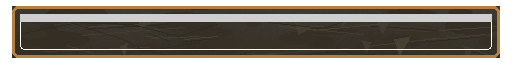
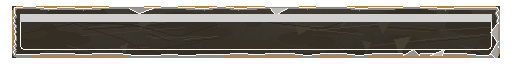
3

Changed region(s): [[0.0, 0.0938, 1.0, 0.9062]]

diff --git a/tools/ci/generate_lapidary_ui_assets.py b/tools/ci/generate_lapidary_ui_assets.py
@@ -54,6 +54,62 @@ def _noise_layer(size: tuple[int, int], opacity: int, seed: int) -> Image.Image:
     return img.filter(ImageFilter.GaussianBlur(0.6))
 
 
+def _jittered_edge_path(
+    start: tuple[int, int],
+    end: tuple[int, int],
+    seed: int,
+    steps: int,
+    amplitude: int,
+) -> list[tuple[int, int]]:
+    rng = random.Random(seed)
+    x1, y1 = start
+    x2, y2 = end
+    points: list[tuple[int, int]] = []
+    horizontal = abs(x2 - x1) >= abs(y2 - y1)
+    for i in range(steps + 1):
+        t = i / max(1, steps)
+        x = round(x1 + (x2 - x1) * t)
+        y = round(y1 + (y2 - y1) * t)
+        if i not in (0, steps):
+            if horizontal:
+                y += rng.randint(-amplitude, amplitude)
+            else:
+                x += rng.randint(-amplitude, amplitude)
+        points.append((x, y))
+    return points
+
+
+def _roughen_outer_edge(
+    img: Image.Image,
+    box: tuple[int, int, int, int],
+    seed: int,
+    amplitude: int = 3,
+    notches: int = 18,
+) -> None:
+    rng = random.Random(seed)
+    draw = ImageDraw.Draw(img, "RGBA")
+    x1, y1, x2, y2 = box
+    top = _jittered_edge_path((x1, y1), (x2, y1), seed + 1, 28, amplitude)
+    right = _jittered_edge_path((x2, y1), (x2, y2), seed + 2, 18, amplitude)
+    bottom = _jittered_edge_path((x2, y2), (x1, y2), seed + 3, 28, amplitude)
+    left = _jittered_edge_path((x1, y2), (x1, y1), seed + 4, 18, amplitude)
+    for path in (top, right, bottom, left):
+        draw.line(path, fill=(12, 10, 8, 120), width=3, joint="curve")
+        draw.line([(x, y - 1) for x, y in path], fill=(232, 218, 184, 32), width=1)
+    for _ in range(notches):
+        side = rng.choice(("top", "right", "bottom", "left"))
+        if side in ("top", "bottom"):
+            x = rng.randint(x1 + 12, x2 - 12)
+            y = y1 if side == "top" else y2
+            notch = [(x, y), (x + rng.randint(4, 14), y + (rng.randint(3, 8) if side == "top" else -rng.randint(3, 8))), (x + rng.randint(12, 26), y)]
+        else:
+            x = x1 if side == "left" else x2
+            y = rng.randint(y1 + 12, y2 - 12)
+            notch = [(x, y), (x + (rng.randint(3, 8) if side == "left" else -rng.randint(3, 8)), y + rng.randint(4, 14)), (x, y + rng.randint(12, 26))]
+        draw.polygon(notch, fill=(18, 15, 12, rng.randint(70, 115)))
+        draw.line(notch, fill=(232, 218, 184, rng.randint(20, 38)), width=1)
+
+
 def _carved_rect(draw: ImageDraw.ImageDraw, box: tuple[int, int, int, int], radius: int) -> None:
     x1, y1, x2, y2 = box
     draw.rounded_rectangle(box, radius=radius, fill=None, outline=STONE_DARK, width=5)
@@ -129,8 +185,11 @@ def register_slab_large(path: Path) -> None:
     slab = _stone_base((960, 448), 11)
     sd = ImageDraw.Draw(slab, "RGBA")
     _carved_rect(sd, (0, 0, 959, 447), 16)
+    _roughen_outer_edge(slab, (2, 2, 957, 445), 301, 4)
     _carved_rect(sd, (42, 66, 448, 348), 10)
+    _roughen_outer_edge(slab, (43, 67, 447, 347), 302, 2)
     _carved_rect(sd, (512, 66, 918, 348), 10)
+    _roughen_outer_edge(slab, (513, 67, 917, 347), 303, 2)
     sd.rectangle((488, 42, 496, 386), fill=(0, 0, 0, 92))
     sd.rectangle((498, 42, 502, 386), fill=(160, 124, 72, 90))
     sd.rounded_rectangle((142, 382, 818, 410), radius=5, fill=GROOVE, outline=STONE_DARK, width=2)
@@ -143,6 +202,7 @@ def register_tablet(path: Path) -> None:
     tablet = _stone_base((416, 328), 23)
     draw = ImageDraw.Draw(tablet, "RGBA")
     _carved_rect(draw, (0, 0, 415, 327), 12)
+    _roughen_outer_edge(tablet, (2, 2, 413, 325), 401, 3)
     for y in (78, 140, 202, 264):
         draw.line((44, y, 372, y), fill=(255, 220, 150, 22), width=1)
     img.alpha_composite(tablet, (16, 16))
@@ -162,6 +222,7 @@ def button_tablet_states(path: Path) -> None:
         button.alpha_composite(Image.new("RGBA", (488, 52), (fill[0], fill[1], fill[2], min(fill[3], 96))))
         bd = ImageDraw.Draw(button, "RGBA")
         bd.rounded_rectangle((0, 0, 487, 51), radius=6, outline=outline, width=3)
+        _roughen_outer_edge(button, (2, 2, 485, 49), 501 + seed, 1, 6)
         bd.rounded_rectangle((8, 8, 479, 43), radius=4, outline=(255, 220, 150, 28), width=1)
         if row == 2:
             bd.rectangle((8, 8, 479, 14), fill=(0, 0, 0, 40))
@@ -175,6 +236,7 @@ def _button_state(path: Path, fill: tuple[int, int, int, int], outline: tuple[in
     button.alpha_composite(Image.new("RGBA", (488, 52), (fill[0], fill[1], fill[2], min(fill[3], 96))))
     bd = ImageDraw.Draw(button, "RGBA")
     bd.rounded_rectangle((0, 0, 487, 51), radius=6, outline=outline, width=3)
+    _roughen_outer_edge(button, (2, 2, 485, 49), 601 + seed, 1, 6)
     bd.rounded_rectangle((8, 8, 479, 43), radius=4, outline=(255, 220, 150, 28), width=1)
     if inset:
         bd.rectangle((8, 8, 479, 15), fill=(0, 0, 0, 48))
@@ -203,6 +265,7 @@ def title_plaque(path: Path) -> None:
     plaque = _stone_base((608, 88), 41)
     draw = ImageDraw.Draw(plaque, "RGBA")
     _carved_rect(draw, (0, 0, 607, 87), 10)
+    _roughen_outer_edge(plaque, (2, 2, 605, 85), 701, 1, 8)
     draw.line((66, 44, 542, 44), fill=(255, 220, 150, 28), width=1)
     img.alpha_composite(plaque, (16, 20))
     img.save(path)
@@ -213,6 +276,7 @@ def pressure_groove(path: Path) -> None:
     rail = _stone_base((736, 64), 52)
     draw = ImageDraw.Draw(rail, "RGBA")
     _carved_rect(draw, (0, 0, 735, 63), 8)
+    _roughen_outer_edge(rail, (2, 2, 733, 61), 801, 1, 6)
     draw.rounded_rectangle((40, 22, 696, 42), radius=4, fill=GROOVE, outline=BRONZE_DARK, width=2)
     draw.line((44, 23, 692, 23), fill=(255, 220, 150, 20), width=1)
     img.alpha_composite(rail, (16, 16))
